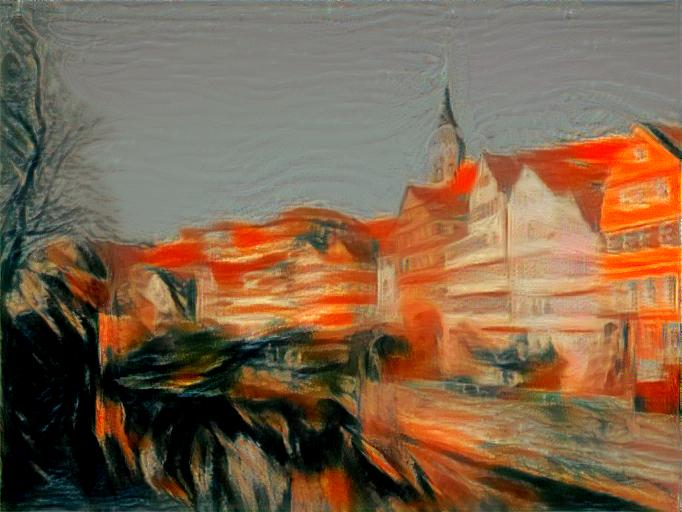
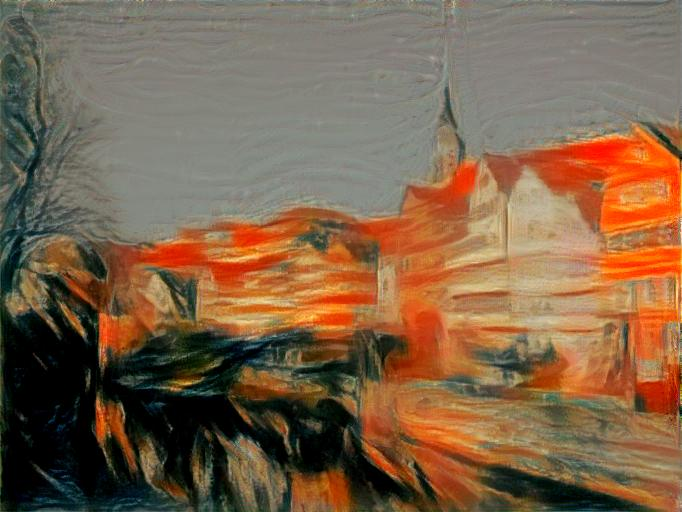
add huang samples

diff --git a/samples/README.md b/samples/README.md
@@ -77,3 +77,9 @@ We test the color control features: `none`, `hist`, `hist_from_style`, `luminanc
 ## adam/
 
 We use Adam instead of LBFGS. The results are obviously worse.
+
+
+
+## huang/
+
+Plots of figure from Huang paper, made with Gatys.
